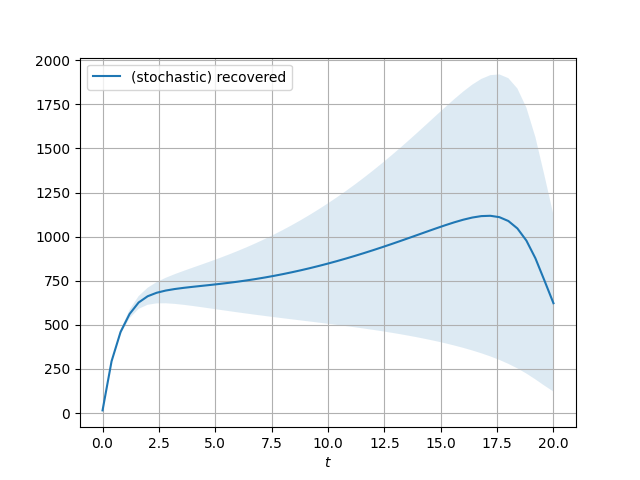
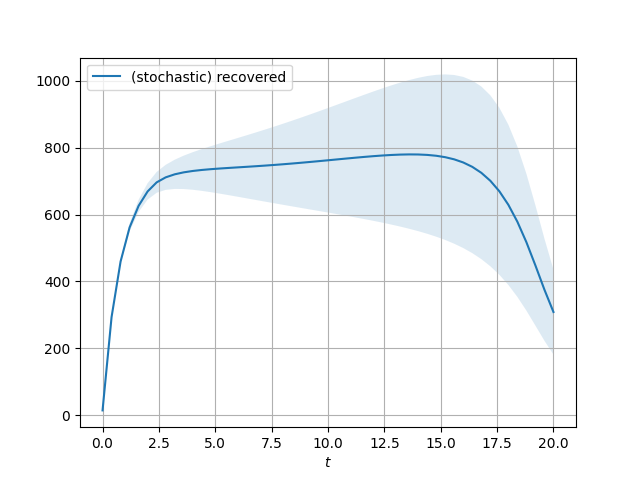
[jomi] Added CVaR support to multiple shooting.

diff --git a/src/ensemblecontrol/multiple_shooting_problem.py b/src/ensemblecontrol/multiple_shooting_problem.py
@@ -68,29 +68,34 @@ def MultipleShootingProblem(final_cost_function,
         ubg += nstates*[0.0]
 
     if beta > 0 and beta < 1.0:
+        # TODO: Use a priori bounds on t for initial value
         t = MX.sym('t', 1)
         w += [t]
         lbw += [-inf]
         ubw += [inf]
-        w0 += [0.0]
-      
+        t0 = 0.0
+        w0 += [t0]
+        J += t 
+    
+    xk = xk.full().flatten()[idx]
     for i in range(nsamples):
-      idx = np.arange(nstates // nsamples)+i*(nstates // nsamples)
-      # TODO: Improve implementation of averaging
-      if beta == 0.0:
-        J += final_cost_function(Xk[idx])/nsamples
-      elif beta > 0 and beta < 1.0:
-        # https://doi.org/10.1061/AJRUA6.0000816
-        r = MX.sym('t_' + str(i), 1)
-        w += [r]
-        lbw += [0.0]
-        ubw += [inf]
-        w0 += [0.0]
-        J += t + (1/(1-beta)/nsamples)*r
-        j = final_cost_function(Xk[idx])
-        g   += [j-t-r]
-        lbg += [-inf]
-        ubg += [0.0]
+        idx = np.arange(nstates // nsamples)+i*(nstates // nsamples)
+        # TODO: Improve implementation of averaging
+        if beta == 0.0:
+            J += final_cost_function(Xk[idx])/nsamples
+        elif beta > 0.0 and beta < 1.0:
+            # https://doi.org/10.1061/AJRUA6.0000816
+            j = final_cost_function(Xk[idx])
+            j0 = final_cost_function(xk[idx])
+            r = MX.sym('r_' + str(i), 1)
+            w += [r]
+            lbw += [0.0]
+            ubw += [inf]
+            w0 += [max(j0-t0,0.0)+1.0]
+            J += (1/(1-beta)/nsamples)*r
+            g   += [j-t-r]
+            lbg += [-inf]
+            ubg += [0.0]
         
     objective = J
     constraints = vertcat(*g)

diff --git a/demo/vaccination_schedule/saa_seir_model.py b/demo/vaccination_schedule/saa_seir_model.py
@@ -13,9 +13,9 @@ from idx_state_control import idx_state_control
 outdir = "output"
 os.makedirs(outdir, exist_ok=True)
 
-def solve(seir_model, samples):
+def solve(seir_model, samples, beta=0.0):
 
-    saa_problem = ensemblecontrol.SAAProblem(seir_model, samples, MultipleShooting=True)
+    saa_problem = ensemblecontrol.SAAProblem(seir_model, samples, beta=beta, MultipleShooting=True)
     w_opt, f_opt = saa_problem.solve()
 
     return w_opt
@@ -69,10 +69,11 @@ def plot(seir_model, w_opt, samples, prefix):
 
 if __name__ == "__main__":
 
+    beta = 0.9
     # Nominal problem
     seir_model = SEIRModel()
     nominal_param = seir_model.nominal_param
-    w_opt = solve(seir_model, nominal_param)
+    w_opt = solve(seir_model, nominal_param, beta=beta)
     plot(seir_model, w_opt, nominal_param, "nominal")
 
 
@@ -81,16 +82,16 @@ if __name__ == "__main__":
     nominal_param = seir_model.nominal_param[0]
 
     # sampler
-    sigma = 0.1
+    sigma = 0.05
 
     nparams = len(nominal_param)
-    m = 10
+    m = 5
     sampler = qmc.Sobol(d=nparams, scramble=False)
     samples = sampler.random_base2(m=m)
     samples = qmc.scale(samples, -1.0, 1.0)
     samples = (1+sigma*samples)*nominal_param
 
-    w_opt = solve(seir_model, samples)
+    w_opt = solve(seir_model, samples, beta=beta)
     plot(seir_model, w_opt, samples, "stochastic")
 
 

diff --git a/src/ensemblecontrol/saa_problem.py b/src/ensemblecontrol/saa_problem.py
@@ -8,11 +8,12 @@ from .single_shooting_problem import SingleShootingProblem
 
 class SAAProblem(object):
 
-    def __init__(self, control_problem, samples, MultipleShooting=True):
+    def __init__(self, control_problem, samples, beta=0.0, MultipleShooting=True):
 
         self.control_problem = control_problem
         self.samples = samples
         self.nsamples = len(samples)
+        self.beta = beta
 
         self.MultipleShooting = MultipleShooting
 
@@ -63,6 +64,8 @@ class SAAProblem(object):
         ensemble_initial_state = self.ensemble_initial_state
         nsamples = self.nsamples
 
+        beta = self.beta 
+
         if self.MultipleShooting == True:
 
             Problem = MultipleShootingProblem
@@ -77,7 +80,8 @@ class SAAProblem(object):
                                             ensemble_initial_state,
                                             control_bounds,
                                             nsamples,
-                                            nintervals)
+                                            nintervals,
+                                            beta=beta)
 
         self.objective = objective
         self.decisions = decisions

diff --git a/src/ensemblecontrol/single_shooting_problem.py b/src/ensemblecontrol/single_shooting_problem.py
@@ -6,7 +6,8 @@ def SingleShootingProblem(objective_function,
                             initial_state,
                             control_bounds,
                             nsamples,
-                            nintervals):
+                            nintervals,
+                            beta=0):
 
     # Start with an empty NLP
     # Adapted from https://github.com/casadi/casadi/blob/main/docs/examples/python/direct_multiple_shooting.py
